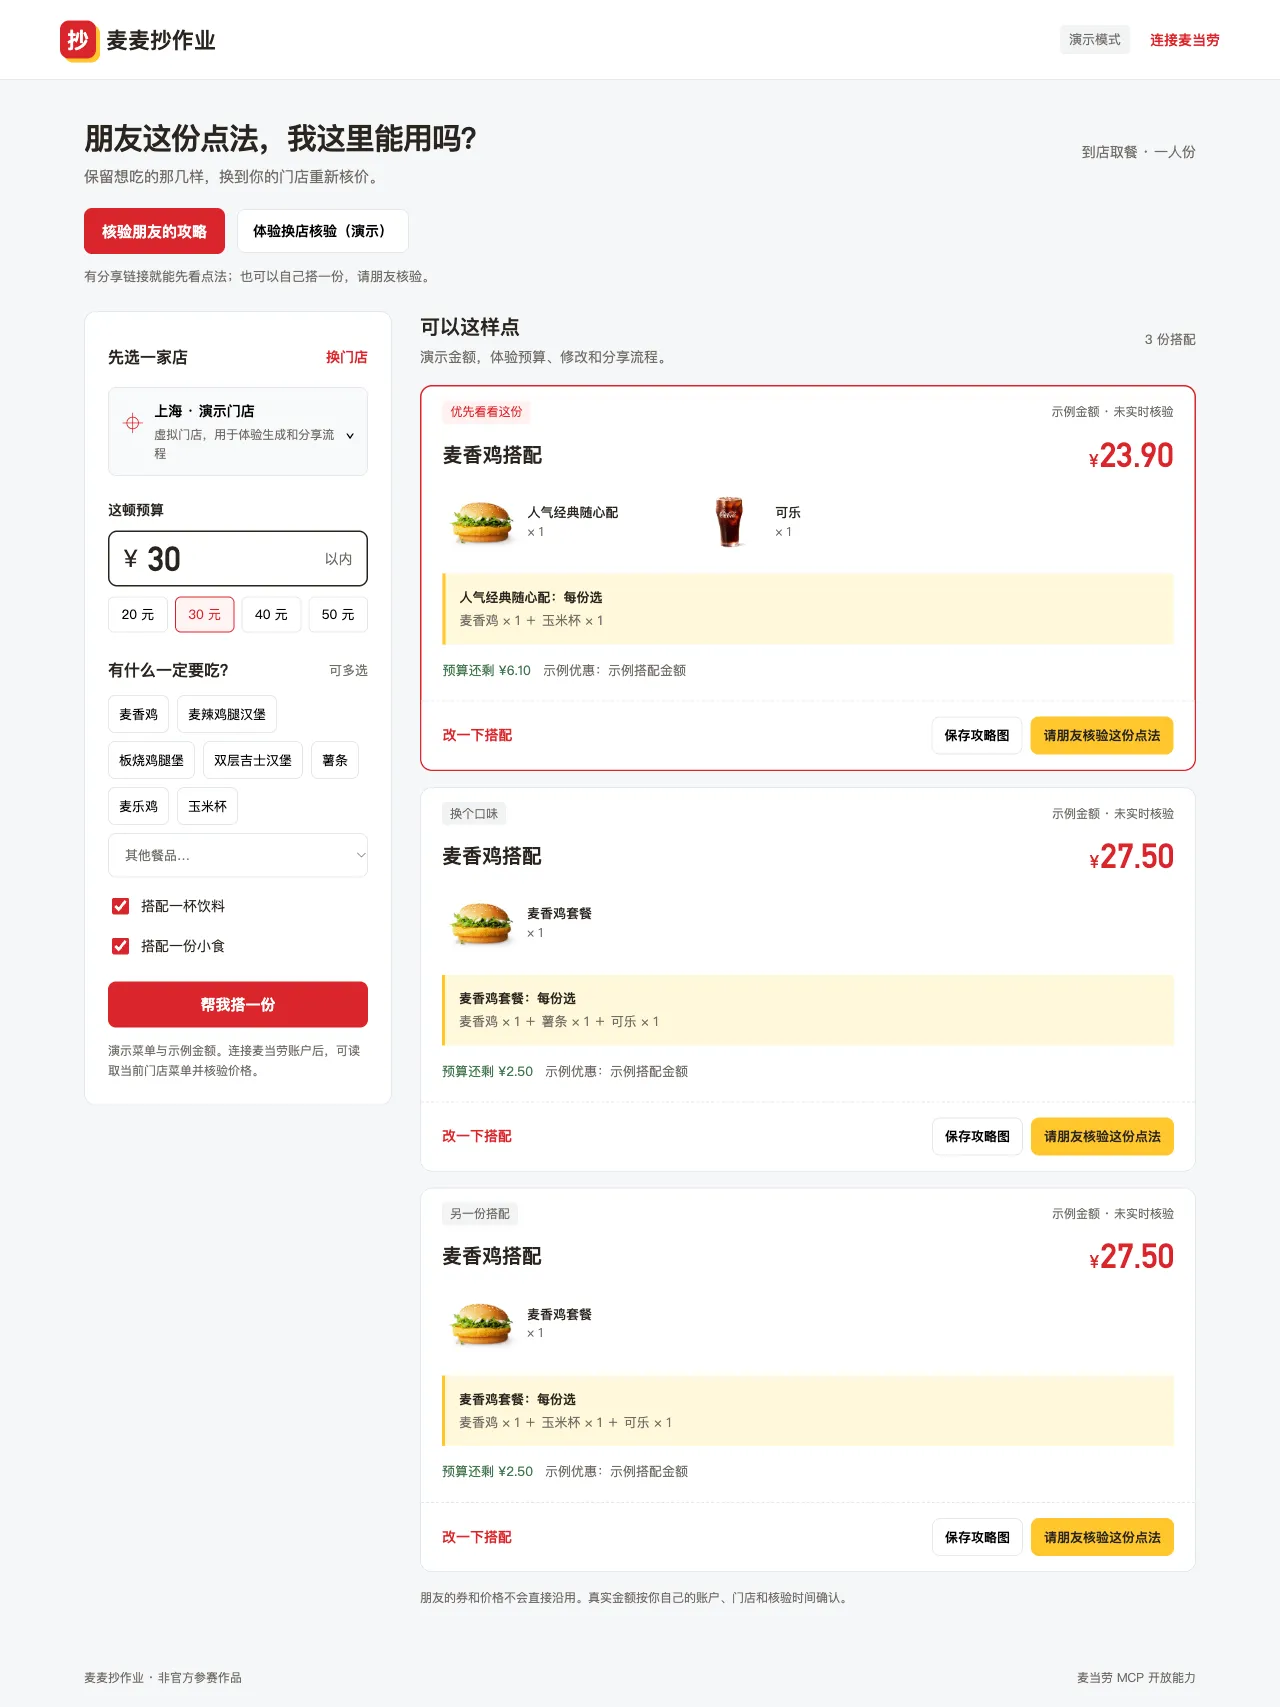
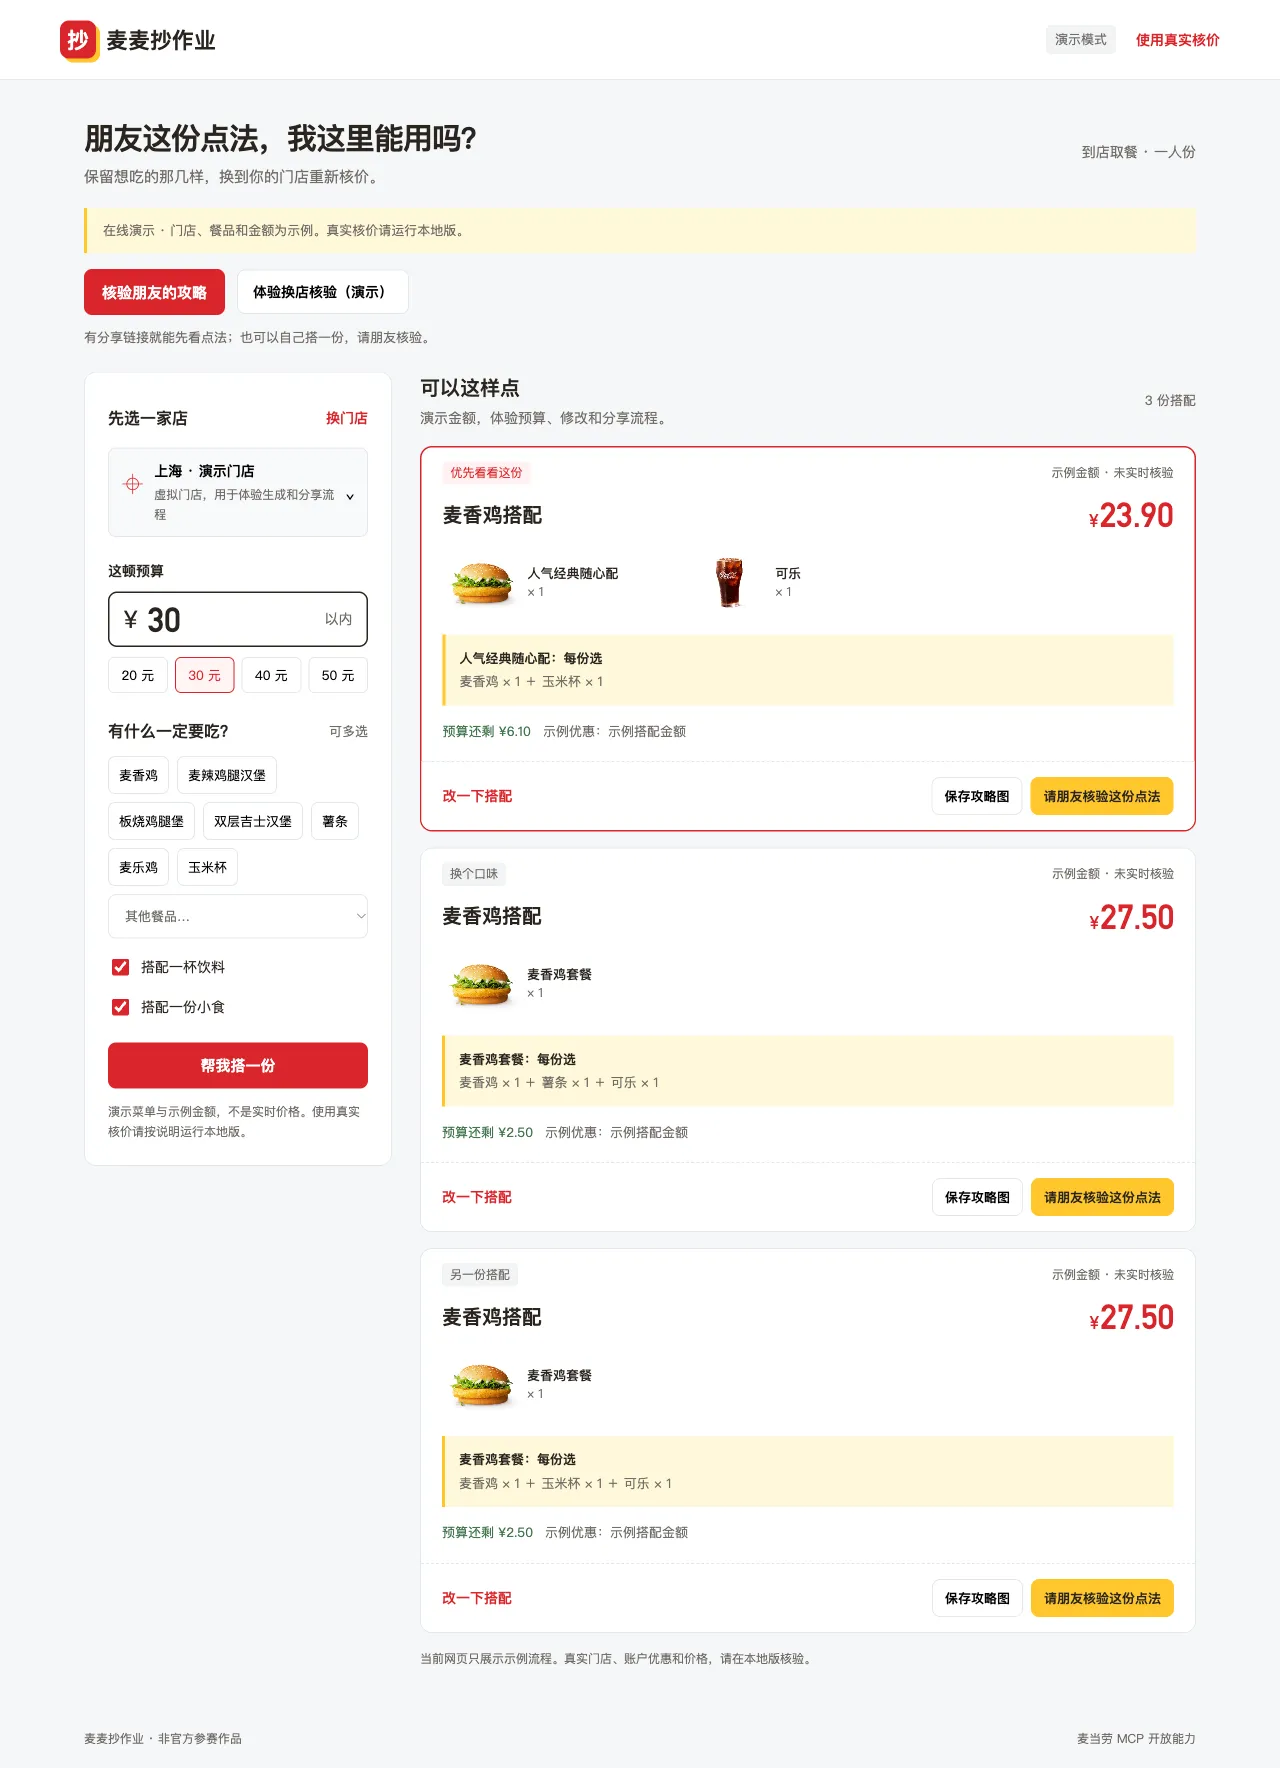
Add verified live Pages demo URL and publication evidence

diff --git a/README.md b/README.md
@@ -2,6 +2,8 @@
 
 **朋友这份点法，在我这家店能用吗？保留具体餐品、套餐选件和份数，用自己的门店重新核价。**
 
+**[在线试玩 · 无需 Token](https://ithrael.github.io/mcd-copy-meal/)**：配餐、修改、分享和换演示门店都可以直接体验。在线金额为示例，真实 MCP 核价请运行下方本地版。
+
 适合收到朋友点餐攻略、想确认自己能否照着点的人，也适合想控制一顿饭预算的学生和上班族。支持单点、套餐和随心配；套餐里的汉堡、小食、饮料杯型也会一起保留。
 
 ![桌面演示界面，金额为示例，未实时核验](docs/images/demo-desktop.webp)
@@ -64,7 +66,9 @@ npm start
 
 ## 公网部署
 
-已增加 [GitHub Pages 工作流](.github/workflows/pages.yml)，发布在线演示：配餐、修改套餐、分享和换演示门店均在浏览器完成，PNG 二维码也在浏览器生成。页面、分享文案和攻略图注明示例金额；在线站不接收 MCP Token。真实核价继续在本地版使用。**Pages 公开地址待部署成功并访问核验后补充。**
+[GitHub Pages 在线演示](https://ithrael.github.io/mcd-copy-meal/)已发布，[工作流](.github/workflows/pages.yml)自动部署：配餐、修改套餐、分享和换演示门店均在浏览器完成，PNG 二维码也在浏览器生成。页面、分享文案和攻略图注明示例金额；在线站不接收 MCP Token。真实核价继续在本地版使用。
+
+2026-10-12 公网访问返回 HTTP 200；浏览器验证了换店演示、图片加载和 390px 手机布局。实际导出的 1080×1112 PNG 可识别二维码，指向本站 `/mcd-copy-meal/` 的具体点法；演示未请求 `/api/*`。[发布检查记录](docs/evidence/pages-2026-10-12.json)区分本地流程测试与公网验证。
 
 自行构建静态演示：`npm ci` 后运行 `npm run build:pages`，只发布 `dist/`。该目录不包含 Node 服务、环境文件或账户数据；不能直接把原始 `public/` 当成完整静态站上传。详细步骤见 [部署说明](docs/deploy.md)。
 

diff --git a/docs/competition.md b/docs/competition.md
@@ -73,3 +73,11 @@
 - 源码已实际公开并推送到 https://github.com/Ithrael/mcd-copy-meal ，GitHub 返回 `isPrivate=false`。发布前检查工作区版本控制文件及历史，未检测到真实 MCP 凭证。
 - Render 配置、部署入口与步骤已就绪；公网平台选择和账户访问尚待用户提供，HTTPS 服务还未发布。报名未提交，未对外发送宣传；没有外部使用、传播或排名成效证据。
 - GitHub CI 在公开仓库的 Node 22、24 检查通过。10:43 在新版接收页面再次实际核验徐家汇店同款 28.40 元，明确显示核价成功并保留具体选件，浏览器无错误；响应节选已公开保存。
+
+## GitHub Pages 演示发布 · 2026-10-12
+
+- 用户选择 GitHub Pages 演示版。复用现有界面、菜单示例和配餐算法，由浏览器生成报价示例及二维码；在线站不接收 Token，真实 MCP 在本地版使用。
+- 演示已实际发布到 https://ithrael.github.io/mcd-copy-meal/ ，HTTPS 返回 200，Pages 工作流成功。源码与页面相互提供入口。
+- 本地项目子路径检查覆盖生成、修改套餐、复制/导入完整文案、换店、超预算、缺项撤旧结果、本地真实核价说明及 PNG 导出；30 项自动测试通过。
+- 公网浏览器检查确认示例核价、图片、390px 无横向溢出、无错误及无 `/api/*` 请求。导出 PNG 的二维码实际识别成功，包含正确项目路径和点法。
+- 发布产物只含静态页面与演示素材，未检测到真实凭证或服务端文件。没有实际用券收益、参赛报名、外部使用或排名成效的新证据。

diff --git a/docs/launch.md b/docs/launch.md
@@ -1,6 +1,6 @@
 # 第一轮真实传播材料
 
-状态：素材草稿，尚未对外发送。源码已公开；完成公网部署后再补实际体验地址。
+状态：素材草稿，尚未对外发送。源码与 GitHub Pages 演示已公开；在线不接入账户，真实核价继续在本地运行。
 
 ## 作品一句话
 
@@ -12,9 +12,9 @@
 
 我做了“麦麦抄作业”：粘贴朋友分享的攻略链接或完整文案，保留具体餐品、份数和套餐里的饮料杯型，换到自己的店核价。原样可核价、超预算、缺项和暂时无法核验分别展示；改了点法，结果也会明确注明。也可以按预算搭一份，把点法和核验时间发给朋友继续验证。
 
-无需 Token 可以先体验标注清楚的演示；连接自己的麦当劳 MCP Token 后可实时核价。只查菜单和价格，不自动下单。
+无需 Token 可以在线体验标注清楚的演示；下载项目在本地运行后，连接自己的麦当劳 MCP Token 可实时核价。只查菜单和价格，不自动下单。
 
-体验：尚未发布，部署成功后补实际 HTTPS 地址
+体验：https://ithrael.github.io/mcd-copy-meal/ （在线演示，示例门店与金额）
 源码：https://github.com/Ithrael/mcd-copy-meal
 
 如果这份作业帮你少纠结了一次午饭，欢迎收藏或给项目一个 Star，也欢迎告诉我哪个点法不好用。

diff --git a/docs/deploy.md b/docs/deploy.md
@@ -4,7 +4,9 @@
 
 用户已选择此方案。在线演示复用原有界面和配餐规则，提供预算配餐、套餐修改、分享、换演示门店及 PNG 导出。所有价格为示例，不连接账户；真实 MCP 核价由本地 Node 版提供。
 
-仓库包含 `.github/workflows/pages.yml`。在仓库 Pages 设置中选择 GitHub Actions 后，推送到 `main` 会执行检查、测试、静态打包及 Pages 发布。公开地址在部署与浏览器核验成功后补充。
+公开演示：[https://ithrael.github.io/mcd-copy-meal/](https://ithrael.github.io/mcd-copy-meal/)。2026-10-12 已通过部署工作流与公网浏览器核验。
+
+仓库包含 `.github/workflows/pages.yml`，Pages 已启用 GitHub Actions。推送到 `main` 会执行检查、测试、静态打包及 Pages 发布；失败时不会发布新的产物。
 
 本地构建：
 
